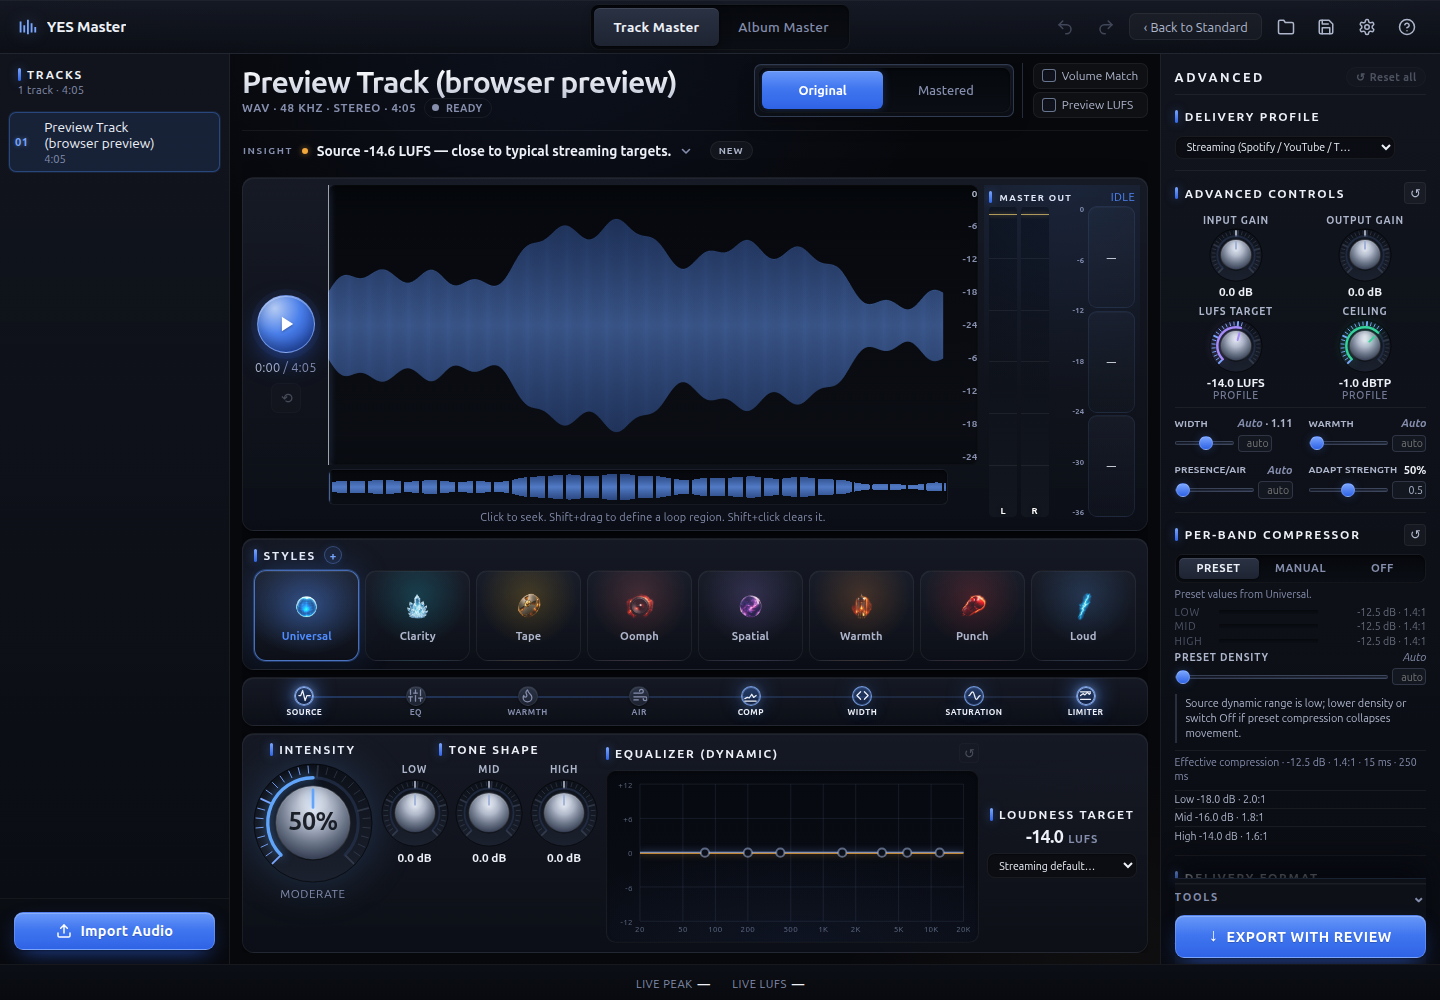
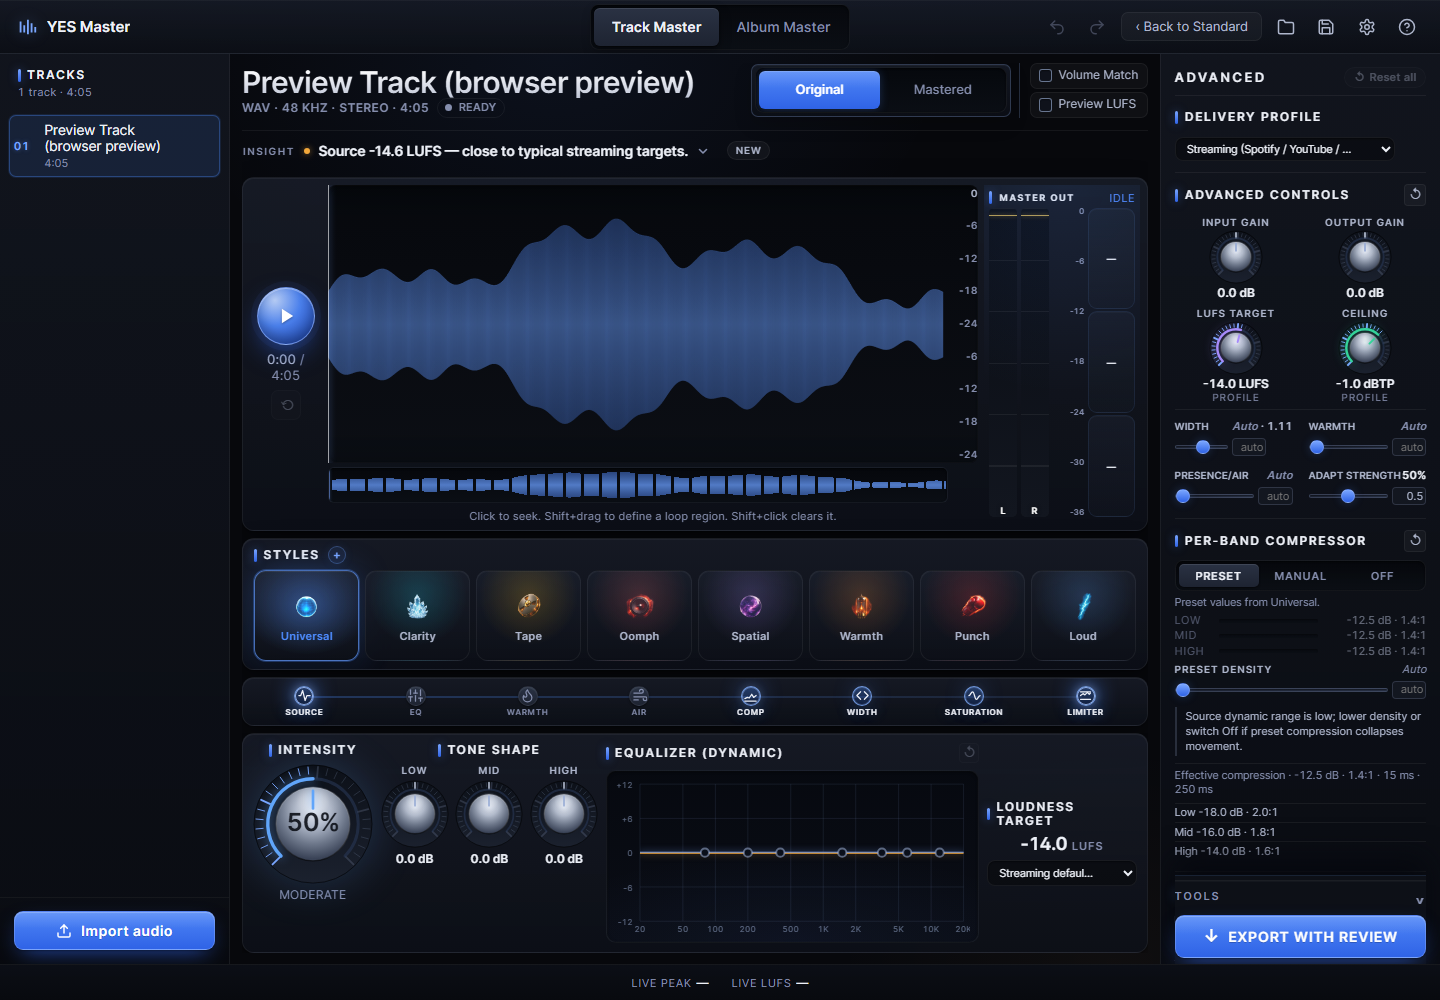
ui: one label for import (Import audio)
All three entry points now say "Import audio": the empty-state hero
(already did), the Advanced sidebar footer (was "Import Audio"), and the
Standard tracks rail (was "+ Add Tracks"). Classes and handlers unchanged.

Test pins updated deliberately: the transitions test and the three
user-errors sites now find the empty-state hero button by container
(.empty-hero-actions button.primary) because the sidebar button shares the
exact text; StandardView.test asserts the rail label.

Ripple: StandardView.tsx is a landing capture input, so the landing asset
gate demanded `npm run capture:landing`. The three deterministic
desktop-*-ui.png captures and the manifest digest were regenerated; the
owner's real-session plates are carried forward untouched (script design).

Plan: docs/plans/2026-09-01-friday-ship-execution-plan.md (S6.1).
npm test 82/836; npm run build green.

diff --git a/src/App.user-errors.test.tsx b/src/App.user-errors.test.tsx
@@ -156,6 +156,20 @@ function buttonByText(container: HTMLElement, text: string): HTMLButtonElement {
   return button;
 }
 
+// The empty-state hero's import button, by container rather than by text:
+// since S6.1 (one label for import) the tracks rail and the Advanced sidebar
+// say "Import audio" too, and these tests mean the hero specifically.
+function emptyStateImportButton(container: HTMLElement): HTMLButtonElement {
+  const button = container.querySelector<HTMLButtonElement>(
+    ".empty-hero-actions button.primary",
+  );
+  if (!button) throw new Error("empty-state Import audio button not found");
+  if ((button.textContent ?? "").trim() !== "Import audio") {
+    throw new Error(`empty-state import button says "${button.textContent}"`);
+  }
+  return button;
+}
+
 beforeEach(() => {
   installTestLocalStorage();
   localStorage.clear();
@@ -176,7 +190,7 @@ describe("App user-facing errors", () => {
     const { root, container } = await mountApp();
 
     await waitFor(() => {
-      expect(buttonByText(container, "Import audio")).toBeTruthy();
+      expect(emptyStateImportButton(container)).toBeTruthy();
     });
 
     await act(async () => {
@@ -189,7 +203,7 @@ describe("App user-facing errors", () => {
     });
 
     await act(async () => {
-      buttonByText(container, "Import audio").click();
+      emptyStateImportButton(container).click();
     });
     await waitFor(() => {
       expect(container.textContent).toContain("Couldn't read bad.wav.");
@@ -210,7 +224,7 @@ describe("App user-facing errors", () => {
     const { root, container } = await mountApp();
 
     await waitFor(() => {
-      expect(buttonByText(container, "Import audio")).toBeTruthy();
+      expect(emptyStateImportButton(container)).toBeTruthy();
     });
 
     await act(async () => {

diff --git a/src/App.tsx b/src/App.tsx
@@ -531,8 +531,9 @@ function App() {
               // it lands in Standard (the default face) even when the last
               // session ended in Advanced. With no track loaded the
               // machine's back-to-standard door is always silent (no
-              // confirm). The pro paths — sidebar "+ Add Tracks", drag-
-              // drop — deliberately keep the current view.
+              // confirm). The pro paths — the sidebar / tracks-rail
+              // "Import audio" buttons, drag-drop — deliberately keep the
+              // current view.
               nav.requestBackToStandard();
               void tm.openImportDialog();
             }}
@@ -1483,7 +1484,7 @@ function Sidebar({
             <polyline points="17 8 12 3 7 8" />
             <line x1="12" y1="3" x2="12" y2="15" />
           </svg>
-          Import Audio
+          Import audio
         </button>
       </div>
     </aside>

diff --git a/src/components/StandardView.test.tsx b/src/components/StandardView.test.tsx
@@ -291,10 +291,13 @@ describe("TracksRail", () => {
     await act(async () => root.unmount());
   });
 
-  it("'+ Add Tracks' opens the import dialog", async () => {
+  it("the tracks-rail 'Import audio' button opens the import dialog", async () => {
     const openImportDialog = vi.fn();
     const { container, root } = await render(<StandardView tm={fakeTm({ openImportDialog })} onEnterAdvanced={() => {}} />);
     const add = container.querySelector<HTMLButtonElement>(".std-add-track")!;
+    // One name for import everywhere (ship review S6.1): the rail button
+    // says the same thing as the empty state and the Advanced sidebar.
+    expect(add.textContent?.trim()).toBe("Import audio");
     await act(async () => { add.click(); });
     expect(openImportDialog).toHaveBeenCalled();
     await act(async () => root.unmount());

diff --git a/src/App.transitions.test.tsx b/src/App.transitions.test.tsx
@@ -682,7 +682,15 @@ describe("welcome hero import funnel", () => {
     });
     expect(hasSidebar(container)).toBe(true);
 
-    await click(findButtonByText(container, "Import audio"));
+    // Scoped to the empty-state hero on purpose: since S6.1 (one label for
+    // import) the Advanced sidebar footer button carries the same text, and
+    // it is the HERO button whose onAdd routes back to Standard.
+    const heroImport = container.querySelector<HTMLButtonElement>(
+      ".empty-hero-actions button.primary",
+    );
+    if (!heroImport) throw new Error("empty-state Import audio button not found");
+    expect(heroImport.textContent?.trim()).toBe("Import audio");
+    await click(heroImport);
 
     await waitFor(() => {
       expect(affordanceText(container)).toBe("Advanced");

diff --git a/src/components/StandardView.tsx b/src/components/StandardView.tsx
@@ -175,7 +175,7 @@ function TracksRail({ tm }: { tm: TM }) {
         className="ghost-btn std-add-track"
         onClick={tm.openImportDialog}
       >
-        + Add Tracks
+        Import audio
       </button>
       <div
         className={
